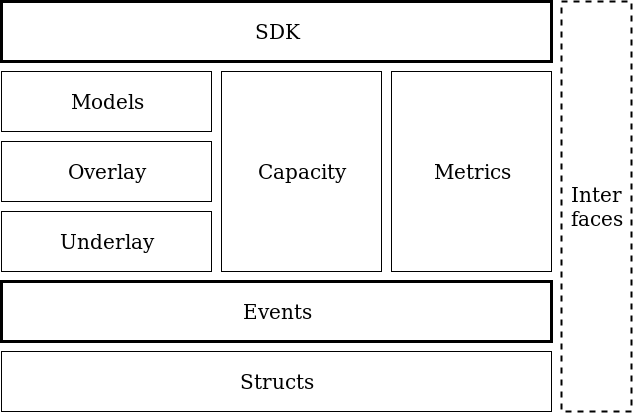
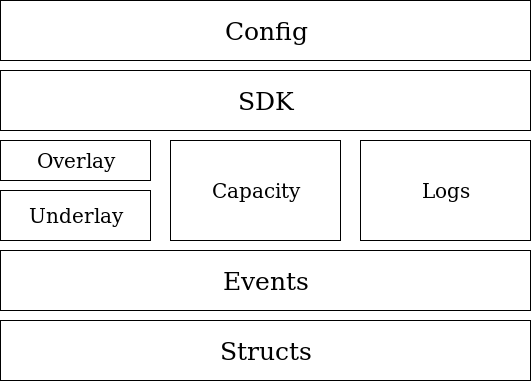
Architecture and roadmap updated.

diff --git a/docs/roadmap.md b/docs/roadmap.md
@@ -5,85 +5,72 @@ The direction in which the project goes should prioritize the following concerns
  - framework usability
  - simulation accuracy
 
-*TL;DR: Check version 1.1 for the current prioritized work.*
-
-We decide to prioritize **developer support** in order to be able to acquire a bigger developer community working on Speer. Moreover, we want to acquire **framework usability** before **simulation accuracy** so that our software is usable for a winder community, including university courses. We encountered some interest from universities for using the tool in the distributed algorithms courses, hence the prioritization of framework usability.
-
-#### Workload and contribution
-
-We aim to split the work for the project to be **small over larger periods of times**. We aim for a mean contribution time between 2-3 hours weekly.
-
-We aim for the contributor work onto this project to be recreational rather than stressful. See our [contributor guidelines](../CONTRIBUTING.md) for more details.
+*TL;DR: Check version 1.2 for the current prioritized work.*
 
 The Roadmap below is not fixed and contributions for parts in letter stages can be done earlier. If as a contributor you are interested in working on a part planned later, you are free to do so and your code will be reviewed!
 
-#### Version 1.0 [current]
+#### Version 1.0 [done]
 
-Currently, the system has a few notable problems in terms of developer support and usability:
 - no configuration files for running simulations
 - no good examples
 - no main runner with specified entry point entry point
 
-#### Version 1.1 [intent: December 2018]
+#### Version 1.1 [done]
 
-We aim for this version to be **contributor friendly**:
 - clean code-base
-- support for **configuration files**
-- reviewing standards specified and established core reviewers
+- support for configuration files
+- reviewing standards specified
 - at least 2 good usage examples
 - main command line utility which allows definition of:
-  - **path for user-supplied code** (i.e. a *.go* file)
+  - path for user-supplied code (i.e. a *.go* file)
   - path for configuration file
-- setup of a **front-end for visualization** in a JS framework(e.g. [React](https://reactjs.org/) & [D3.js](https://d3js.org/))
+- setup of a front-end for visualization in a JS framework(e.g. [React](https://reactjs.org/) & [D3.js](https://d3js.org/))
 
-#### Version 1.2 [intent: March/April 2019]
+#### Version 1.2 [intent: September 2019]
 
-At this version we want to **expand our contributor base**. The main purpose of this stage is to work on **usability**:
-- **basic front-end** with visualization tools for:
+- basic front-end with visualization tools for:
   - hop count distribution
   - latency distribution
   - throughput distribution
   - network layer topology
   - transport layer topology
-- non-preemptive **Python SDK** implementation:
-  - possibility user supplied code in Python
-  - Golang examples in Python as well
-  - library wrapper and deployment for pip
+- progress and safety support
+- handshake support
+- failure support
+  - node failures
+  - joins and leaves
+  - lossy links
+- routing algorithms
+  - using [BGP](https://en.wikipedia.org/wiki/Border_Gateway_Protocol) together with OSPF
+  - support for dynamic latencies
 
-#### Version 2.0 [intent: September 2019]
+#### Version 1.3
+- non-preemptive Python SDK implementation:
+    - possibility user supplied code in Python
+    - Golang examples in Python as well
+    - library wrapper and deployment for pip
+- non-preemptive Rust SDK implementation
 
-During start of version 2.0 we want to already be able to start **talks with universities for using Speer in distributed algorithms courses.**
+#### Version 2.0
 
-The main focus of this stage is **gathering requirements** from universities and implementing them into Speer. Things we consider are related to usability and could include:
+During start of version 2.0 we want to support requirements by universities interested in using Speer in distributed algorithms courses. Things we consider are related to usability and could include:
 - implementing new SDKs
 - changing the front-end
 - changing the setup process
 - changing programming primitives
 
-The work planned during this period can intersect with parts planned for the next version.
+#### Version 2.1
 
-#### Version 2.1 [intent: End of 2019/Beginning of 2020]
-
-This work is mainly focused on improving the simulations themselves, in particular:
+This work is mainly focused on improving the simulations themselves. Some examples include:
 - moving flow simulations to network level(see this [paper](https://dl.acm.org/citation.cfm?id=1272986))
-- dynamic topologies(initially model failures as Possion processes)
-- dynamic workloads(model node departure and arrival)
-- node failure(model node failure - hard and soft)
-- using [BGP](https://en.wikipedia.org/wiki/Border_Gateway_Protocol) together with OSPF
-- using [B4](https://dl.acm.org/citation.cfm?id=2486019) for WANs
 - realistic topologies: by using real datasets(e.g. [Archipelago Measurement Infrastructure](http://www.caida.org/projects/ark/))
 
 Other work can be related to improving the current simulation infrastructure. Some examples are:
 - replacing the heap with O(1) lazy structures
 - parallelize the flow allocation algorithms
-- use memory mapped files to provide faster ICP for Python SDK
+- faster ICP for SDKs
 
-We are open to new ideas besides the ones described above.
+#### Version 3.0
 
-#### Version 3.0 [intent: sometime in the distant future]
-
-The final goal of the simulator is to allow for **large scale simulations**. This can be done by allowing deployment on multiple machines.
-
-The two main lines of work are:
 - infrastructure to allow deployment of multiple simulations on multiple machines(each on 1 machine)
 - infrastructure to allow deployment of a single simulation on multiple machines

diff --git a/docs/architecture.md b/docs/architecture.md
@@ -1,24 +1,20 @@
 ## Architecture Overview
 
-[TODO]
-
 ### Layer Summary
 
 The lowermost layer is the **Structs layer** which provides the data structures
-that we use in the other packages. The core of the simulation is **an Events library** which runs the simulation using a **lazy event queue**. Over that, we distinguish 3 main packages: the latency-related packages(**Underlay, Overlay
-and Models**), the **capacity package** and the **metrics package**.
+that we use in the other packages. The core of the simulation is **an Events library** which runs the simulation using a **lazy event queue**. Over that, we distinguish 3 main packages: the latency-related packages(**Underlay and Overlay**), the **Capacity package** and the **Logs package**.
 The **Underlay** models the latencies at the network layer, providing realistic topologies.
 The **Overlay** mainly abstracts the **Underlay** particularities away by providing an interface towards via naming abstractions and packet layering. The **Overlay** represents the transport layer encapsulation.
-Finally, the **Models** module is used to represent application-level events such as a node joining the peer-to-peer network or a query being issued.
 
 ![ ](pics/arch.png)
 
 The **Capacity** package is used to model bandwidth. It seamlessly operates with the latency module to provide the network model.
 The working model follows the TCP high-level description in order to allow a
 high number of nodes to be simulated on commodity hardware.
-The **Metrics** package is a package used to monitor the simulation. Finally, at the highest level, we have the **SDK and Interfaces**
+The **Logs** package is a package used to monitor the simulation. At a higher level, we have the **SDK and Interface**
 packages which expose to the exterior the packet transport primitives and the interfaces that need to be implemented by the user.
-Moreover, the SDK provides a **simulation builder** which can be used to define and fine-tune the simulations.
+Moreover, the SDK provides a **simulation builder** which can be used to define and fine-tune the simulations. Finally, at the highest level, the **Config** package is used to simplify defining simulations via Json files.
 
 ### Module details
 
